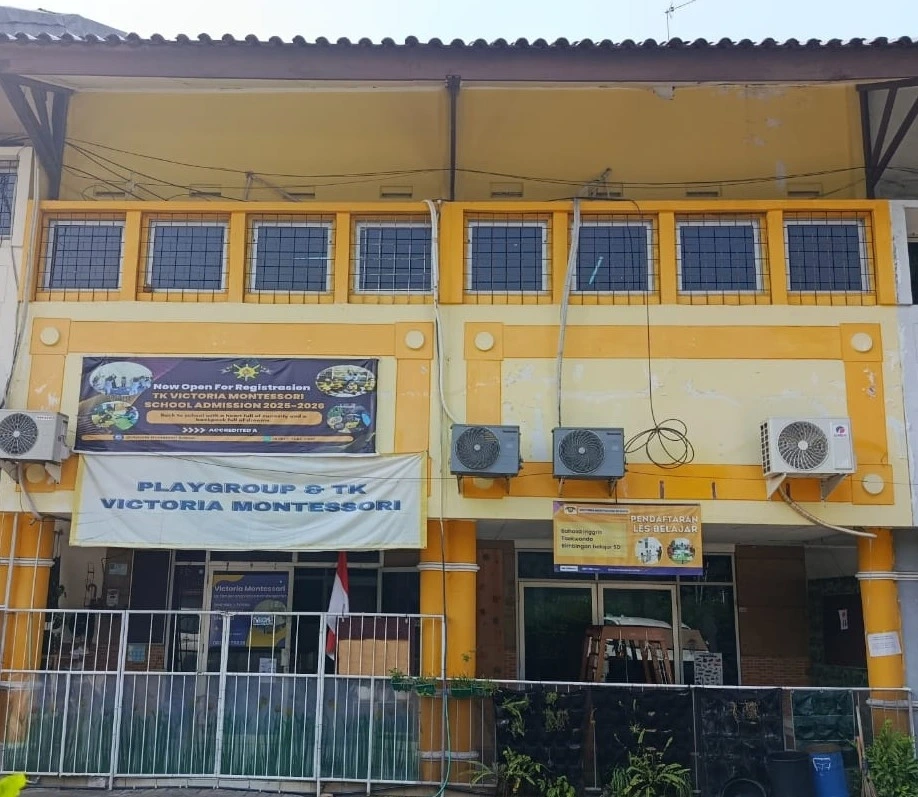
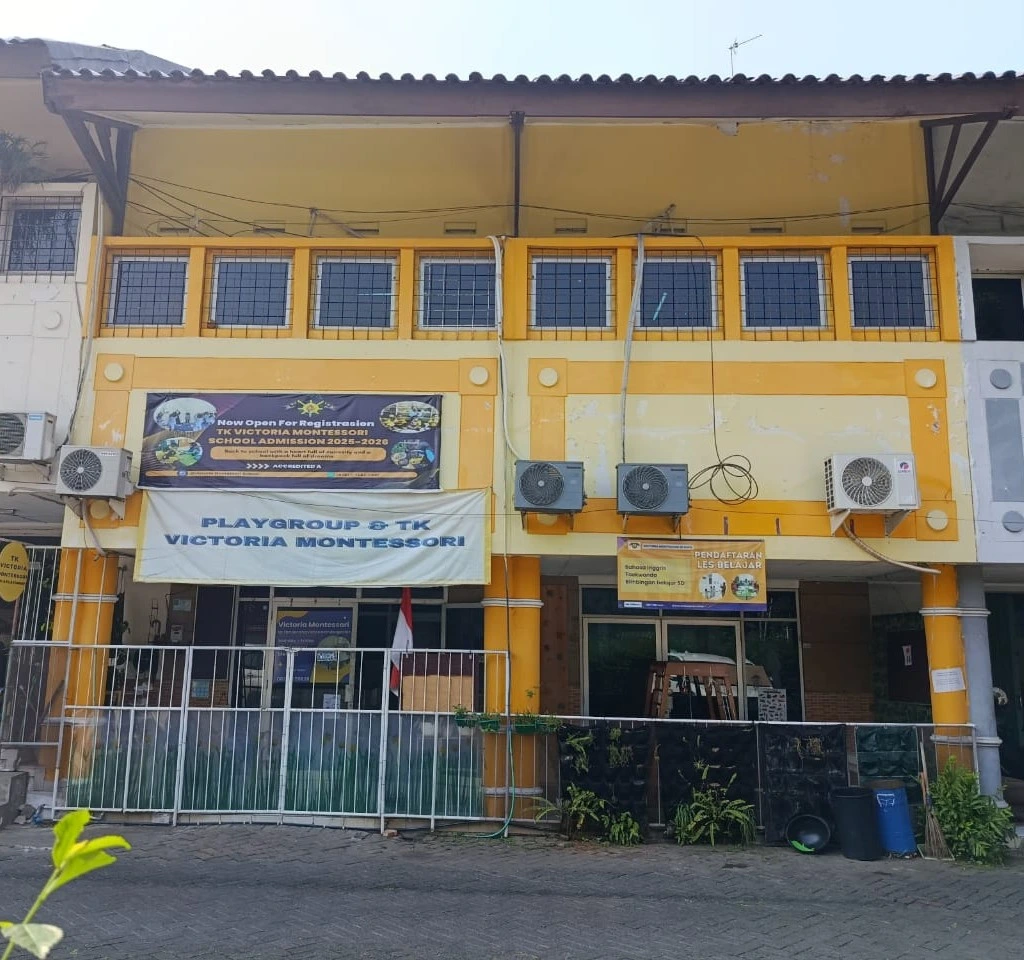
assets(image) : Change image Victoria buildings. page(home) : Change hero image

diff --git a/home/index.html b/home/index.html
@@ -194,9 +194,9 @@
       >
         <!-- Gambar Background -->
         <img
-          src="../assets/image/web-image/hero-tk_victoria.webp"
+          src="../assets/image/web-image/Gedung TK Victoria.webp"
           alt="TK Victoria Montessori School"
-          class="absolute inset-0 object-cover w-full h-full"
+          class="absolute inset-0 w-full h-full"
         />
 
         <!-- Overlay Warna agar teks lebih kontras -->
